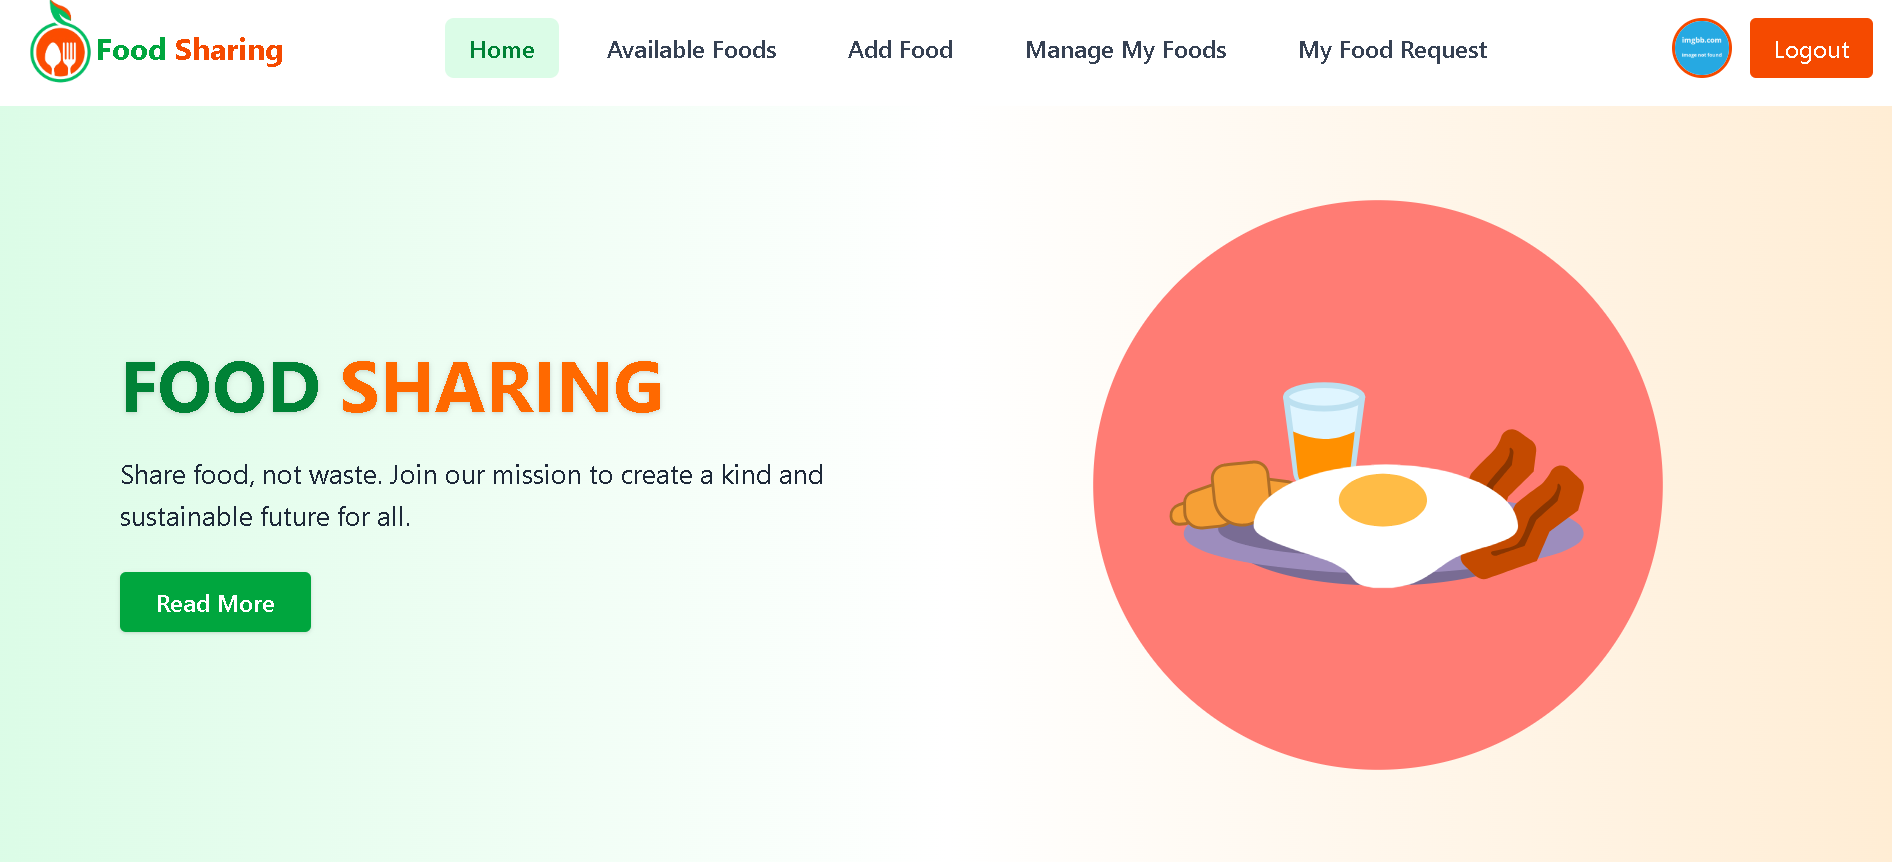
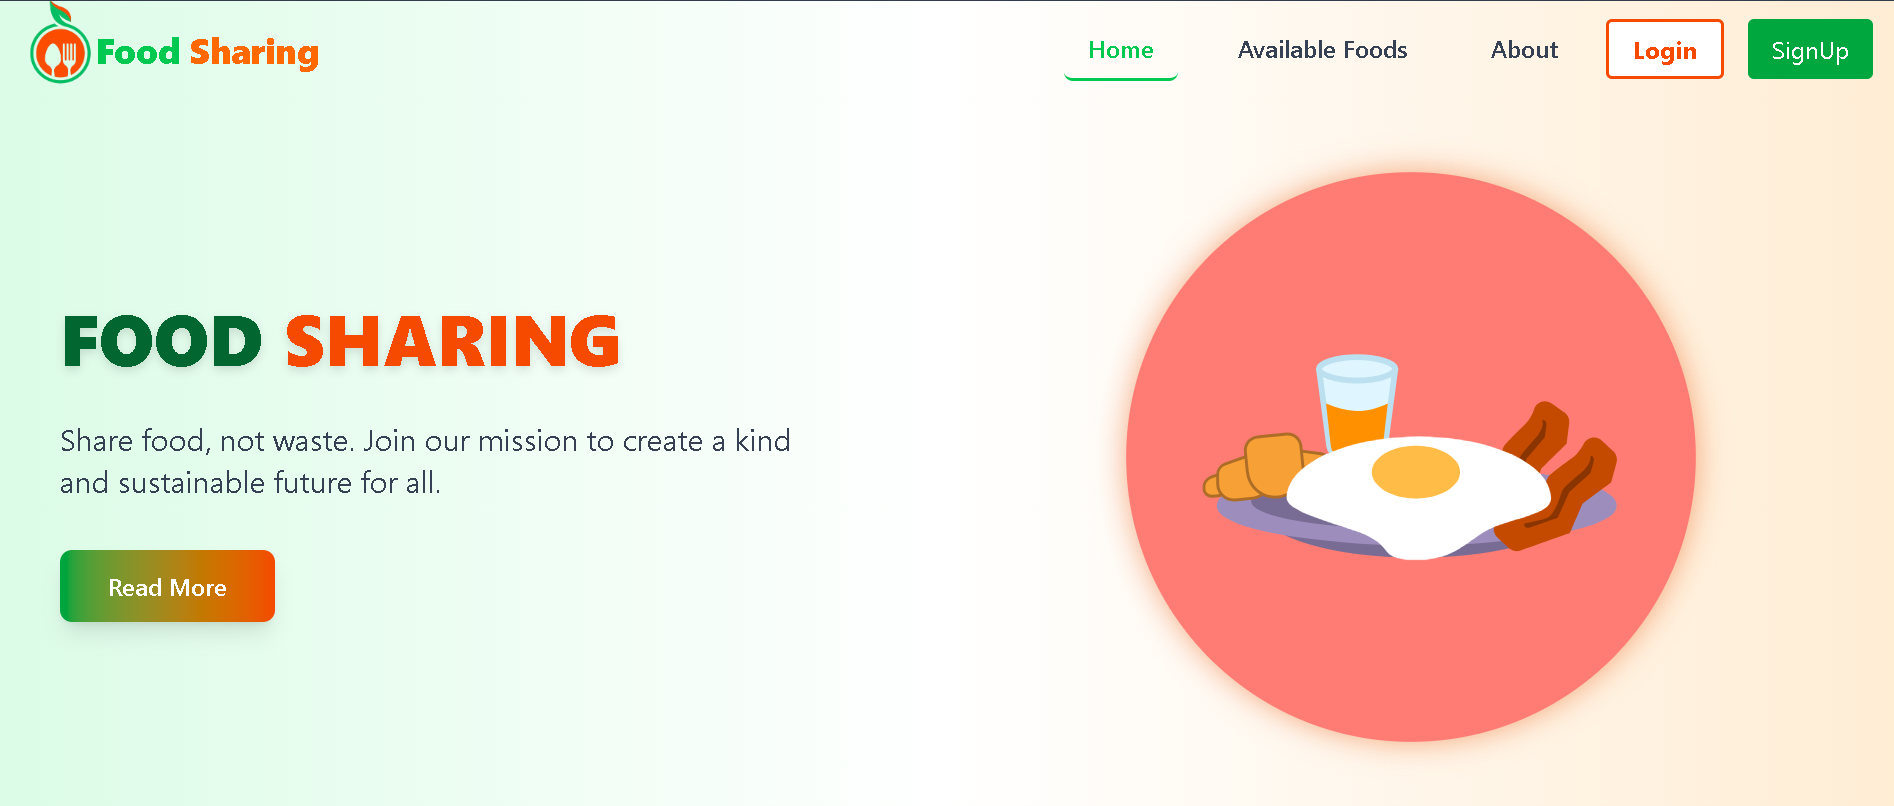
added a full web update

diff --git a/src/Pages/ManageMyFood/ManageMyFood.jsx b/src/Pages/ManageMyFood/ManageMyFood.jsx
@@ -1,3 +1,4 @@
+
 import { useContext, useEffect, useState } from "react";
 import Swal from "sweetalert2";
 import { useNavigate } from "react-router-dom";
@@ -72,54 +73,61 @@ export default function ManageMyFood() {
     };
 
     return (
-        <div className="py-10 px-4 md:px-20">
-            <h2 className="text-3xl font-bold text-green-700 text-center mb-6">
+        <div className="py-12 px-4 md:px-20 bg-gray-50 min-h-screen">
+            <h2 className="text-4xl font-extrabold text-green-700 text-center mb-10 drop-shadow-md">
                 🍽 Manage My Foods
             </h2>
 
             {myFoods.length > 0 ? (
-                <div className="overflow-x-auto">
-                    <table className="table w-full border">
-                        <thead className="bg-green-100 text-green-800">
+                <div className="overflow-x-auto rounded-lg shadow-lg border border-green-200 bg-white">
+                    <table className="table-auto w-full text-left min-w-[700px]">
+                        <thead className="bg-green-100 text-green-800 uppercase text-sm">
                             <tr>
-                                <th>#</th>
-                                <th>Image</th>
-                                <th>Food Name</th>
-                                <th>Quantity</th>
-                                <th>Expire Date</th>
-                                <th>Status</th>
-                                <th>Actions</th>
+                                <th className="px-6 py-3">#</th>
+                                <th className="px-6 py-3">Image</th>
+                                <th className="px-6 py-3">Food Name</th>
+                                <th className="px-6 py-3">Quantity</th>
+                                <th className="px-6 py-3">Expire Date</th>
+                                <th className="px-6 py-3">Status</th>
+                                <th className="px-6 py-3">Actions</th>
                             </tr>
                         </thead>
                         <tbody>
                             {myFoods.map((food, index) => (
-                                <tr key={food._id} className="hover:bg-orange-50">
-                                    <td>{index + 1}</td>
-                                    <td>
+                                <tr
+                                    key={food._id}
+                                    className="border-b border-green-100 hover:bg-green-50 transition"
+                                >
+                                    <td className="px-6 py-4 font-medium">{index + 1}</td>
+                                    <td className="px-6 py-4">
                                         <img
                                             src={food.foodImage}
                                             alt={food.foodName}
-                                            className="w-12 h-12 rounded object-cover"
+                                            className="w-14 h-14 rounded-xl object-cover border border-green-300 shadow-sm"
                                         />
                                     </td>
-                                    <td className="font-semibold">{food.foodName}</td>
-                                    <td>{food.quantity}</td>
-                                    <td>{new Date(food.expiredAt).toLocaleString()}</td>
-                                    <td>
-                                        <span className="badge bg-green-200 text-green-800">
+                                    <td className="px-6 py-4 font-semibold text-green-800">{food.foodName}</td>
+                                    <td className="px-6 py-4 text-green-700">{food.quantity}</td>
+                                    <td className="px-6 py-4 text-green-700">
+                                        {new Date(food.expiredAt).toLocaleString()}
+                                    </td>
+                                    <td className="px-6 py-4">
+                                        <span className="inline-block bg-green-200 text-green-800 px-3 py-1 rounded-full text-xs font-semibold">
                                             {food.status}
                                         </span>
                                     </td>
-                                    <td className="space-x-2">
+                                    <td className="px-6 py-4 space-x-3 whitespace-nowrap">
                                         <button
                                             onClick={() => handleUpdate(food._id)}
-                                            className="btn btn-sm bg-green-500 text-white hover:bg-green-600"
+                                            className="px-4 py-2 bg-green-600 text-white rounded-lg hover:bg-green-700 transition"
+                                            title="Update Food"
                                         >
                                             Update
                                         </button>
                                         <button
                                             onClick={() => handleDelete(food._id)}
-                                            className="btn btn-sm bg-orange-500 text-white hover:bg-red-600"
+                                            className="px-4 py-2 bg-red-600 text-white rounded-lg hover:bg-red-700 transition"
+                                            title="Delete Food"
                                         >
                                             Delete
                                         </button>
@@ -130,7 +138,7 @@ export default function ManageMyFood() {
                     </table>
                 </div>
             ) : (
-                <p className="text-center text-gray-600">
+                <p className="text-center text-gray-600 text-lg mt-20">
                     You haven’t added any food yet.
                 </p>
             )}

diff --git a/src/Pages/AvailableFoodx/AvailableFoods.jsx b/src/Pages/AvailableFoodx/AvailableFoods.jsx
@@ -1,101 +1,7 @@
-// src/Pages/AvailableFoods.jsx
-// import { useEffect, useState } from "react";
-// import { Link } from "react-router-dom";
-
-// export default function AvailableFoods() {
-//     const [foods, setFoods] = useState([]);
-//     const [sortOrder, setSortOrder] = useState("asc");
-//     const [filteredFoods, setFilteredFoods] = useState([]);
-
-//     useEffect(() => {
-//         fetch("https://food-sharing-serverset.vercel.app/foods?status=available")
-//             .then((res) => res.json())
-//             .then((data) => {
-//                 setFoods(data);
-//                 setFilteredFoods(data);
-//             });
-//     }, []);
-
-//     const handleSort = (order) => {
-//         setSortOrder(order);
-//         const sorted = [...foods].sort((a, b) => {
-//             const dateA = new Date(a.expiredAt);
-//             const dateB = new Date(b.expiredAt);
-//             return order === "asc" ? dateA - dateB : dateB - dateA;
-//         });
-//         setFilteredFoods(sorted);
-//     };
-
-//     return (
-//         <div className="px-6 md:px-20 py-10 bg-gradient-to-r from-green-50 to-orange-50 min-h-screen">
-//             <h2 className="text-4xl font-bold text-center text-green-700 mb-8">
-//                 🍱 Available Foods
-//             </h2>
-
-//             {/* Sort Dropdown */}
-//             <div className="mb-8 flex justify-center">
-//                 <select
-//                     value={sortOrder}
-//                     onChange={(e) => handleSort(e.target.value)}
-//                     className="select select-bordered border-orange-400 text-green-700 font-semibold"
-//                 >
-//                     <option value="asc">Sort by Expire Date (Ascending)</option>
-//                     <option value="desc">Sort by Expire Date (Descending)</option>
-//                 </select>
-//             </div>
-
-//             {/* Cards Section */}
-//             {filteredFoods.length > 0 ? (
-//                 <div className="grid grid-cols-1 sm:grid-cols-2 lg:grid-cols-3 gap-8">
-//                     {filteredFoods.map((food) => (
-//                         <div
-//                             key={food._id}
-//                             className="bg-white border border-green-200 rounded-xl shadow-xl p-5 hover:shadow-2xl transition"
-//                         >
-//                             <img
-//                                 src={food.foodImage}
-//                                 alt={food.foodName}
-//                                 className="w-full h-48 object-cover rounded-lg mb-4 border border-orange-200"
-//                             />
-//                             <h3 className="text-2xl font-bold text-green-800 mb-2">{food.foodName}</h3>
-//                             <p className="text-sm text-gray-700 mb-1">📦 Quantity: <strong>{food.quantity}</strong></p>
-//                             <p className="text-sm text-gray-700 mb-1">📍 Pickup: <strong>{food.location}</strong></p>
-//                             <p className="text-sm text-orange-600 mb-3">⏰ Expires: {new Date(food.expiredAt).toLocaleString()}</p>
-
-//                             {/* Donor Info */}
-//                             <div className="flex items-center gap-4 p-3 bg-green-50 rounded-lg border border-orange-100 mb-4">
-//                                 <img
-//                                     src={food.donorImage}
-//                                     alt={food.donorName}
-//                                     className="w-12 h-12 rounded-full border-2 border-orange-400 object-cover"
-//                                 />
-//                                 <div>
-//                                     <p className="text-green-800 font-semibold">{food.donorName}</p>
-//                                     <p className="text-xs text-gray-500">{food.donorEmail}</p>
-//                                 </div>
-//                             </div>
-
-//                             <Link to={`/food/${food._id}`}>
-//                                 <button className="btn bg-orange-500 text-white w-full hover:bg-green-600">
-//                                     🍽 View Details
-//                                 </button>
-//                             </Link>
-//                         </div>
-//                     ))}
-//                 </div>
-//             ) : (
-//                 <p className="text-center text-gray-600 text-lg mt-10">
-//                     No available foods right now.
-//                 </p>
-//             )}
-//         </div>
-//     );
-// }
-
-
 import React, { useState } from "react";
 import { Link } from "react-router-dom";
 import { useQuery } from "@tanstack/react-query";
+import Loading from "../../components/Loading";
 
 const getToken = () => localStorage.getItem("access-token");
 
@@ -148,7 +54,7 @@ export default function AvailableFoods() {
             return sortOrder === "asc" ? dateA - dateB : dateB - dateA;
         });
 
-    if (isLoading) return <div className="text-center py-20">Loading foods...</div>;
+    if (isLoading) return <div className="text-center py-20"><Loading></Loading></div>;
     if (error)
         return (
             <div className="text-center py-20 text-red-600">
@@ -157,7 +63,7 @@ export default function AvailableFoods() {
         );
 
     return (
-        <div className="px-6 md:px-20 py-10 bg-gradient-to-r from-green-50 to-orange-50 min-h-screen">
+        <div className="px-6 md:px-20 py-10 bg-gradient-to-r from-green-50 via-white to-orange-50 min-h-screen">
             <h2 className="text-4xl font-bold text-center text-green-700 mb-8">
                 🍱 Available Foods
             </h2>

diff --git a/src/components/Navbar.jsx b/src/components/Navbar.jsx
@@ -1,6 +1,5 @@
-
 import React, { useState, useContext, useEffect, useRef } from "react";
-import { Link, NavLink } from "react-router-dom";
+import { Link, NavLink, useLocation } from "react-router-dom";
 import { FaBars, FaTimes, FaChevronDown } from "react-icons/fa";
 import Logo from "../assets/Logo.png";
 import { AuthContext } from "../Provider/AuthProvider";
@@ -12,6 +11,7 @@ const Navbar = () => {
     const [isDropdownOpen, setIsDropdownOpen] = useState(false);
     const dropdownRef = useRef(null);
     const { user, logout } = useContext(AuthContext);
+    const location = useLocation();  // <-- useLocation hook
 
     useEffect(() => {
         const handleScroll = () => setIsSticky(window.scrollY > 10);
@@ -59,9 +59,10 @@ const Navbar = () => {
                 to={link.path}
                 onClick={() => onClickClose?.()}
                 className={({ isActive }) =>
-                    `px-4 py-2 rounded-md font-medium transition duration-300 whitespace-nowrap ${isActive
-                        ? "bg-orange-100 text-orange-700 shadow-sm"
-                        : "text-gray-700 hover:text-orange-600"
+                    `px-4 py-2 rounded-md font-medium transition duration-300 whitespace-nowrap
+          ${isActive
+                        ? "border-b-2 border-green-500 text-green-500"
+                        : "border-b-2 border-transparent text-gray-700 hover:text-green-600 hover:border-green-400"
                     }`
                 }
             >
@@ -69,10 +70,16 @@ const Navbar = () => {
             </NavLink>
         ));
 
+    // শর্ত: হোম পেজে আছি এবং স্ক্রোল হয়নি (isSticky=false)
+    // তখন gradient, অন্যথায় সাদা ব্যাকগ্রাউন্ড
+    const headerBgClass =
+        location.pathname === "/" && !isSticky
+            ? "bg-gradient-to-r from-green-100 via-white to-orange-100"
+            : "bg-white shadow-md";
+
     return (
         <header
-            className={`sticky top-0 z-50 bg-white transition-all duration-300 ${isSticky ? "shadow-md" : ""
-                }`}
+            className={`sticky top-0 z-50 transition-all duration-300 ${headerBgClass}`}
         >
             <div className="container mx-auto px-4 flex items-center justify-between h-16">
                 {/* Logo */}
@@ -143,7 +150,7 @@ const Navbar = () => {
                     ) : (
                         <>
                             <NavLink to="/login">
-                                <button className="px-4 py-2 bg-orange-600 text-white rounded hover:bg-orange-700 transition">
+                                <button className="px-4 py-1.5 font-bold bg-white text-orange-600 border-2 border-orange-600 rounded hover:bg-orange-100 transition">
                                     Login
                                 </button>
                             </NavLink>
@@ -222,6 +229,31 @@ const Navbar = () => {
 };
 
 export default Navbar;
+
+
+
+
+
+
+
+
+
+
+
+
+
+
+
+
+
+
+
+
+
+
+
+
+
 
 
 

diff --git a/src/Pages/MyFoodRequest/MyFoodRequest.jsx b/src/Pages/MyFoodRequest/MyFoodRequest.jsx
@@ -1,5 +1,6 @@
 import { useContext, useEffect, useState } from "react";
 import { AuthContext } from "../../Provider/AuthProvider";
+import Loading from "../../components/Loading";
 
 export default function MyFoodRequest() {
     const { user } = useContext(AuthContext);
@@ -42,7 +43,7 @@ export default function MyFoodRequest() {
     if (loading) {
         return (
             <p className="text-center py-10 text-lg text-orange-600 animate-pulse">
-                ⏳ Loading your requests...
+                <Loading></Loading>
             </p>
         );
     }

diff --git a/src/Layout/Homelayout.jsx b/src/Layout/Homelayout.jsx
@@ -14,3 +14,22 @@ const Homelayout = () => {
 };
 
 export default Homelayout;
+
+
+
+
+
+
+
+
+
+
+
+
+
+
+
+
+
+
+

diff --git a/src/components/Banner.jsx b/src/components/Banner.jsx
@@ -55,3 +55,4 @@ export default Banner;
 
 
 
+
